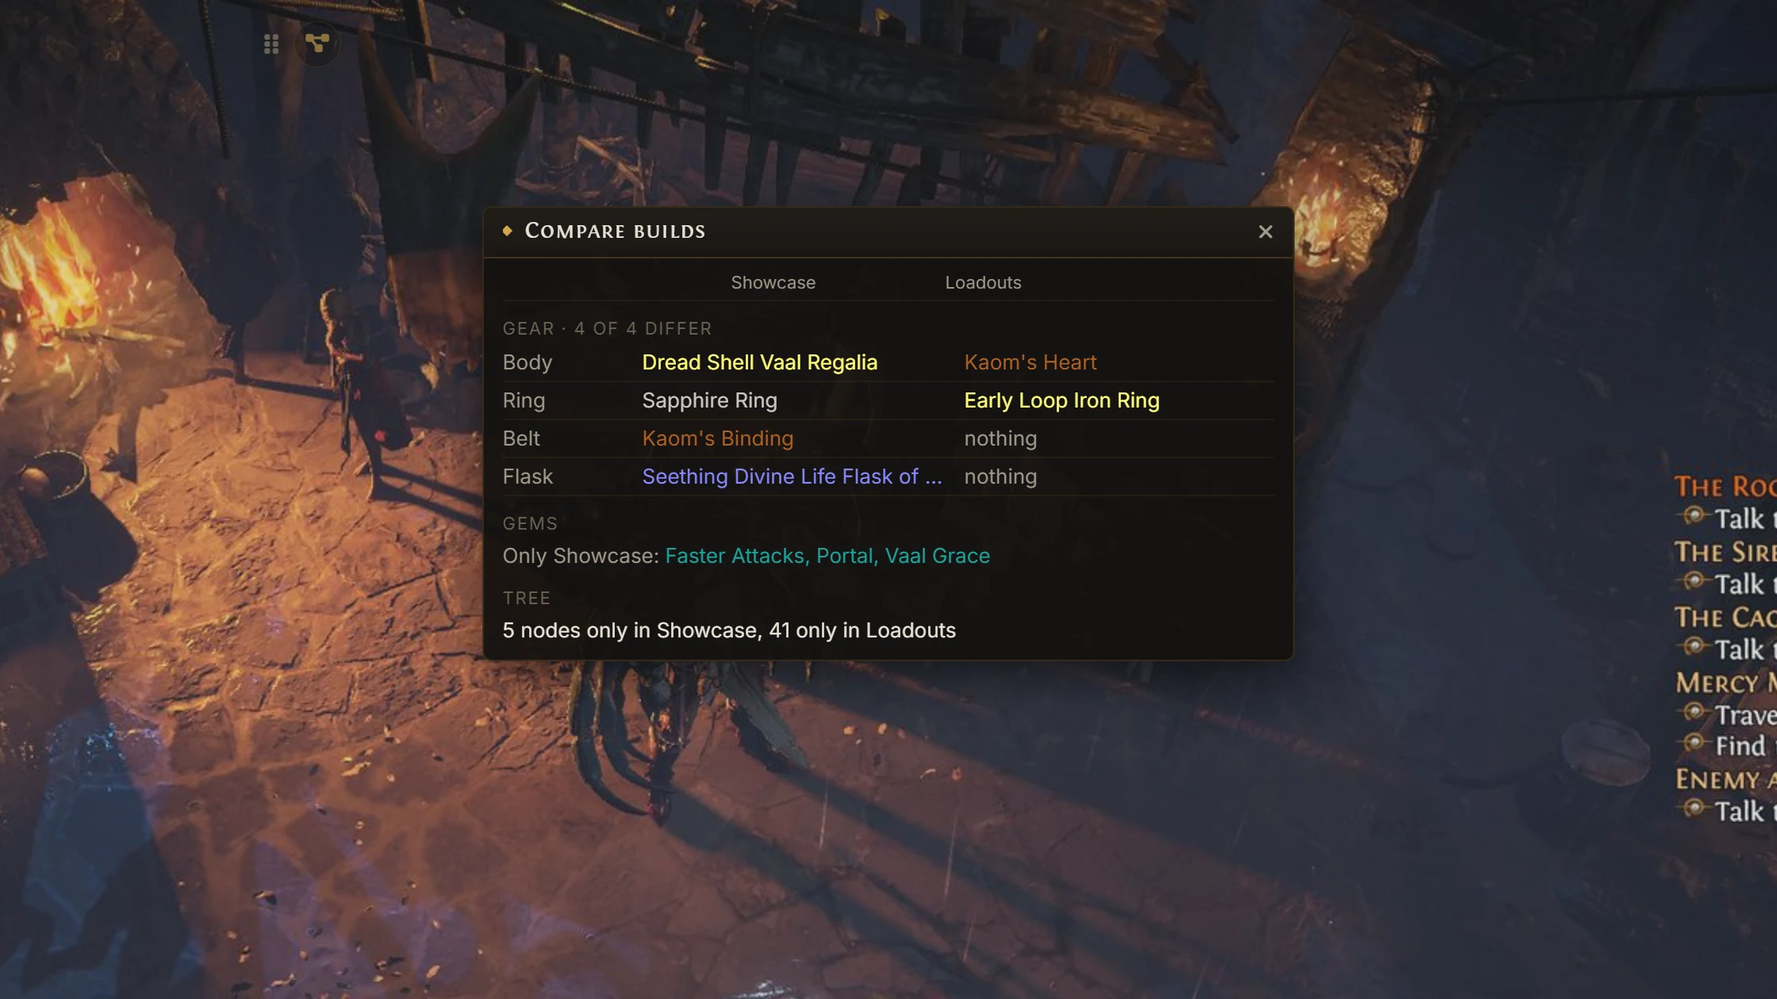
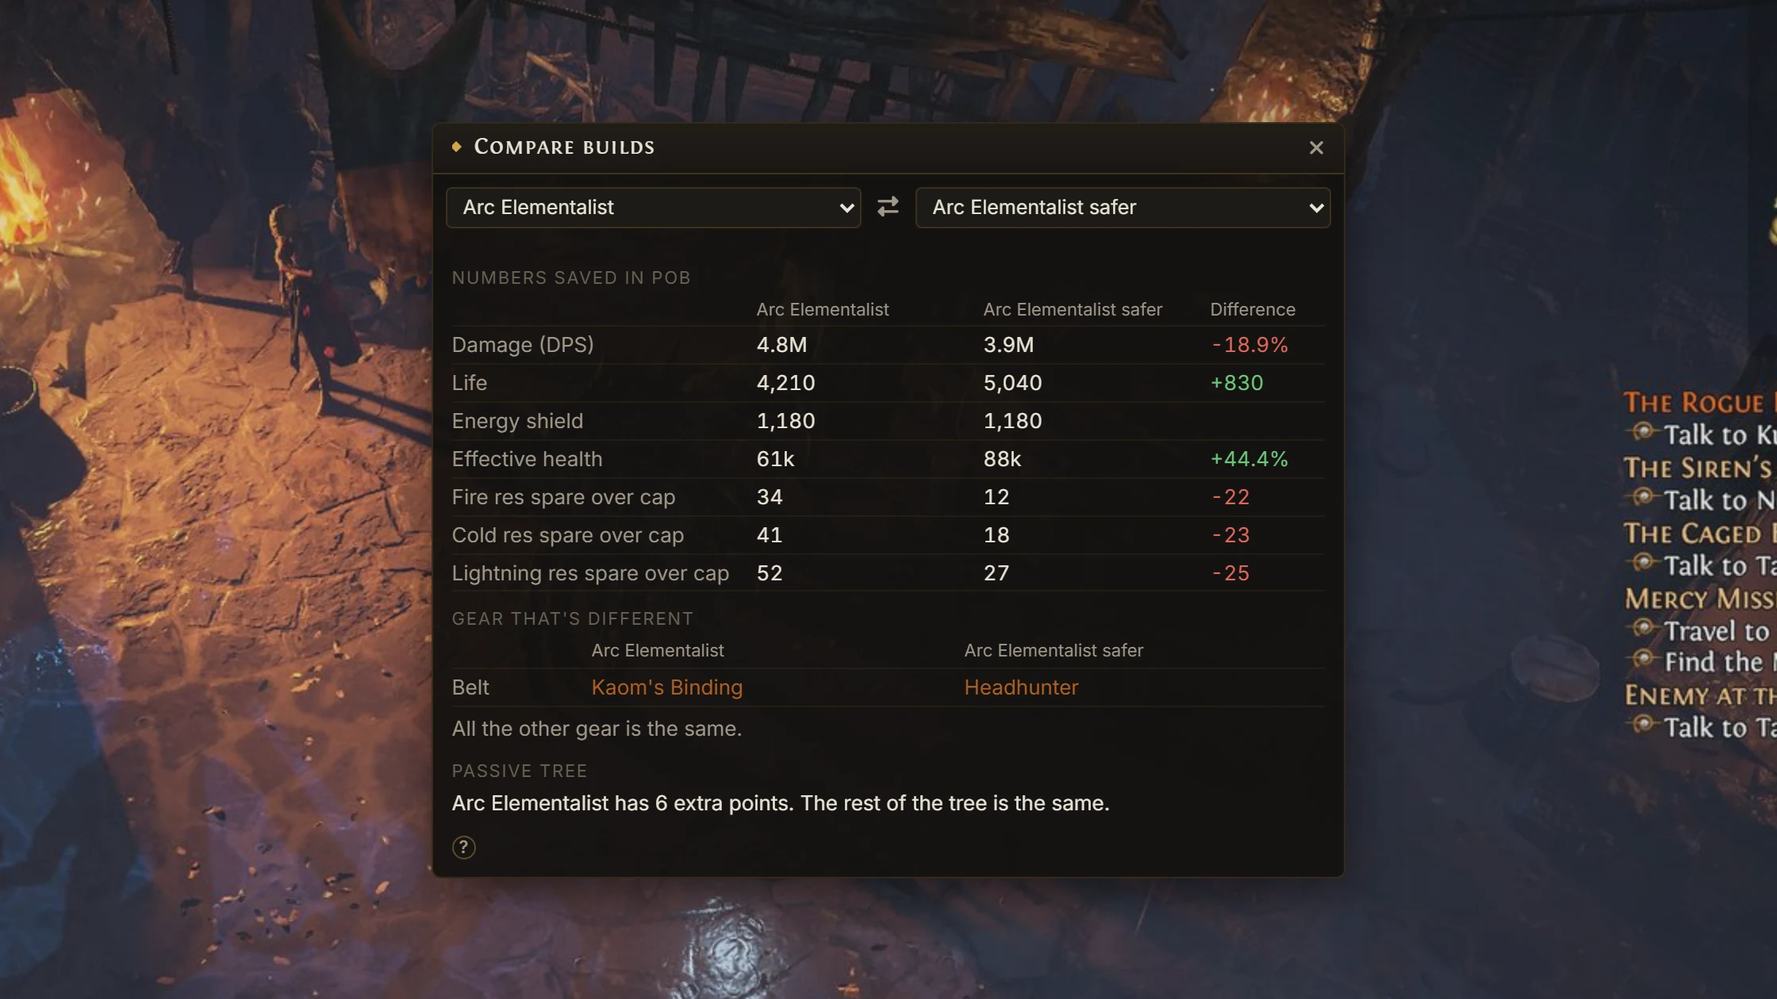
Compare builds: pick both builds in the window, in plain words
The window has a picker for each build and opens from the build's menu, as well as from
the list. Its labels and tree line say what they mean, and the landing page shows it with
believable builds.

diff --git a/renderer/src/web/woke/pob-builds/BuildCompare.vue b/renderer/src/web/woke/pob-builds/BuildCompare.vue
@@ -1,55 +1,83 @@
 <template>
-  <WPanel title="Compare builds" size-key="compare" width="32rem" max-height="70vh">
+  <WPanel title="Compare builds" size-key="compare" width="36rem" max-height="70vh">
     <template #actions>
       <button class="w-icon-btn" title="Close" @click="emit('close')"><i class="fas fa-times" /></button>
     </template>
-    <WEmpty v-if="error" icon="fas fa-exclamation-triangle">{{ error }}</WEmpty>
+    <template #toolbar>
+      <div :class="$style.pick">
+        <WSelect :model-value="a?.relPath ?? ''" :options="options" aria-label="First build" @update:model-value="emit('pick', $event, b?.relPath ?? '')" />
+        <button v-if="a && b" class="w-icon-btn" title="Swap them" @click="emit('pick', b.relPath, a.relPath)"><i class="fas fa-exchange-alt" /></button>
+        <span v-else class="w-dim text-xs">and</span>
+        <WSelect :model-value="b?.relPath ?? ''" :options="options" aria-label="Second build" @update:model-value="emit('pick', a?.relPath ?? '', $event)" />
+      </div>
+    </template>
+
+    <WEmpty v-if="!a || !b" icon="fas fa-balance-scale">Pick two builds to compare.</WEmpty>
+    <WEmpty v-else-if="a === b" icon="fas fa-balance-scale">That's the same build twice. Pick another.</WEmpty>
+    <WEmpty v-else-if="error" icon="fas fa-exclamation-triangle">{{ error }}</WEmpty>
     <WEmpty v-else-if="!result" icon="fas fa-spinner fa-spin">Loading…</WEmpty>
     <div v-else :class="$style.body">
-      <div :class="[$style.row, $style.head]">
-        <span />
-        <span class="w-trunc" :title="a.name">{{ a.name }}</span>
-        <span class="w-trunc" :title="b.name">{{ b.name }}</span>
-        <span />
-      </div>
-      <div v-for="s in result.stats" :key="s.label" :class="$style.row">
-        <span class="w-dim">{{ s.label }}</span>
-        <span class="w-num">{{ s.a }}</span>
-        <span class="w-num">{{ s.b }}</span>
-        <span class="w-num" :style="{ color: TONE[s.tone] }">{{ s.delta }}</span>
-      </div>
-      <div v-if="result.stats.length" class="pt-1"><WInfo text="Stats as PoB saved them, for each build's active sets." /></div>
-
-      <div :class="$style.heading">Gear · {{ result.gear.length }} of {{ result.gearTotal }} differ</div>
-      <div v-for="(g, i) in result.gear" :key="i" :class="$style.gear">
-        <span class="w-dim">{{ g.slot }}</span>
-        <span class="w-trunc" :class="rarity(g.a)">{{ itemName(g.a) }}</span>
-        <span class="w-trunc" :class="rarity(g.b)">{{ itemName(g.a) === itemName(g.b) ? 'Same base, other mods' : itemName(g.b) }}</span>
-      </div>
-
-      <template v-if="result.gemsOnlyA.length || result.gemsOnlyB.length">
-        <div :class="$style.heading">Gems</div>
-        <div v-if="result.gemsOnlyA.length"><span class="w-dim">Only {{ a.name }}: </span><span class="w-rarity-gem">{{ result.gemsOnlyA.join(', ') }}</span></div>
-        <div v-if="result.gemsOnlyB.length"><span class="w-dim">Only {{ b.name }}: </span><span class="w-rarity-gem">{{ result.gemsOnlyB.join(', ') }}</span></div>
+      <template v-if="result.stats.length">
+        <div :class="$style.heading">Numbers saved in PoB</div>
+        <div :class="[$style.row, $style.head]">
+          <span />
+          <span class="w-trunc" :title="a.name">{{ a.name }}</span>
+          <span class="w-trunc" :title="b.name">{{ b.name }}</span>
+          <span>Difference</span>
+        </div>
+        <div v-for="s in result.stats" :key="s.label" :class="$style.row">
+          <span class="w-dim">{{ s.label }}</span>
+          <span class="w-num">{{ s.a }}</span>
+          <span class="w-num">{{ s.b }}</span>
+          <span class="w-num" :style="{ color: TONE[s.tone] }">{{ s.delta }}</span>
+        </div>
       </template>
 
-      <div :class="$style.heading">Tree</div>
-      <div v-if="result.treeOnlyA || result.treeOnlyB">{{ result.treeOnlyA }} nodes only in {{ a.name }}, {{ result.treeOnlyB }} only in {{ b.name }}</div>
-      <div v-else class="w-dim">The same tree.</div>
+      <template v-if="result.gear.length">
+        <div :class="$style.heading">Gear that's different</div>
+        <div :class="[$style.gear, $style.head]">
+          <span />
+          <span class="w-trunc">{{ a.name }}</span>
+          <span class="w-trunc">{{ b.name }}</span>
+        </div>
+        <div v-for="(g, i) in result.gear" :key="i" :class="$style.gear">
+          <span class="w-dim">{{ g.slot }}</span>
+          <span class="w-trunc" :class="rarity(g.a)" :title="itemName(g.a)">{{ itemName(g.a) }}</span>
+          <span class="w-trunc" :class="rarity(g.b)" :title="itemName(g.b)">{{ itemName(g.a) === itemName(g.b) ? 'Same base, other mods' : itemName(g.b) }}</span>
+        </div>
+        <div v-if="result.gear.length < result.gearTotal" class="w-dim pt-1">All the other gear is the same.</div>
+      </template>
+      <div v-else :class="$style.line" class="w-dim">All the gear is the same.</div>
+
+      <template v-if="result.gemsOnlyA.length || result.gemsOnlyB.length">
+        <div :class="$style.heading">Skill gems in only one build</div>
+        <div v-if="result.gemsOnlyA.length"><span class="w-dim">Only in {{ a.name }}: </span><span class="w-rarity-gem">{{ result.gemsOnlyA.join(', ') }}</span></div>
+        <div v-if="result.gemsOnlyB.length"><span class="w-dim">Only in {{ b.name }}: </span><span class="w-rarity-gem">{{ result.gemsOnlyB.join(', ') }}</span></div>
+      </template>
+
+      <div :class="$style.heading">Passive tree</div>
+      <div>{{ treeSentence(result, a.name, b.name) }}</div>
+      <div v-if="result.stats.length" class="pt-2"><WInfo text="Numbers are as PoB saved them, for the set each build was saved on." /></div>
     </div>
   </WPanel>
 </template>
 
 <script setup lang="ts">
-import { shallowRef, watch } from 'vue'
-import { WEmpty, WInfo, WPanel } from '../ui'
-import { compareBuilds } from './compare-builds'
+import { computed, shallowRef, watch } from 'vue'
+import { WEmpty, WInfo, WPanel, WSelect } from '../ui'
+import { compareBuilds, treeSentence } from './compare-builds'
 import type { BuildCompare } from './compare-builds'
 import { pobApi } from './widget'
 import type { PobBuildEntry, PobBuildsWidget, PobItem } from './widget'
 
-const props = defineProps<{ config: PobBuildsWidget, a: PobBuildEntry, b: PobBuildEntry }>()
-const emit = defineEmits<{ (e: 'close'): void }>()
+// Either side may be unpicked yet.
+const props = defineProps<{ config: PobBuildsWidget, builds: PobBuildEntry[], a?: PobBuildEntry, b?: PobBuildEntry }>()
+const emit = defineEmits<{ (e: 'close'): void, (e: 'pick', a: string, b: string): void }>()
+
+const options = computed(() => [
+  { value: '', label: 'Pick a build…' },
+  ...props.builds.map(x => ({ value: x.relPath, label: x.folder ? `${x.name} (${x.folder})` : x.name }))
+])
 
 const TONE = { up: 'var(--w-up)', down: 'var(--w-down)', dim: 'var(--w-dim)' }
 
@@ -58,11 +86,14 @@ const error = shallowRef('')
 
 // Follows a save in PoB too, since the entries come from the refreshed list.
 let latest = 0
-watch(() => [props.a.relPath, props.a.mtime, props.b.relPath, props.b.mtime].join('\n'), async () => {
+watch(() => [props.a?.relPath, props.a?.mtime, props.b?.relPath, props.b?.mtime].join('\n'), async () => {
   const read = ++latest
   error.value = ''
+  result.value = null
+  const { a, b } = props
+  if (!a || !b || a === b) return
   try {
-    const [x, y] = await Promise.all([pobApi.read(props.config, props.a.relPath), pobApi.read(props.config, props.b.relPath)])
+    const [x, y] = await Promise.all([pobApi.read(props.config, a.relPath), pobApi.read(props.config, b.relPath)])
     if (read === latest) result.value = compareBuilds(x, y)
   } catch (err) {
     if (read === latest) error.value = (err as Error).message
@@ -92,10 +123,17 @@ function rarity (item: PobItem | null) {
 }
 .row {
   display: grid;
-  grid-template-columns: 8.5rem minmax(0, 1fr) minmax(0, 1fr) 4.5rem;
+  grid-template-columns: 11.5rem minmax(0, 1fr) minmax(0, 1fr) 4.5rem;
   gap: 8px;
   padding: 2px 0;
   border-bottom: 1px solid var(--w-line-soft);
+}
+.pick {
+  display: grid;
+  grid-template-columns: minmax(0, 1fr) auto minmax(0, 1fr);
+  align-items: center;
+  gap: 6px;
+  width: 100%;
 }
 .head {
   color: var(--w-dim);

diff --git a/testing/e2e/landing-highlights.spec.ts b/testing/e2e/landing-highlights.spec.ts
@@ -305,15 +305,23 @@ test('pob: what each stage costs', async ({ overlay }) => {
 test('pob: two builds side by side', async ({ overlay }) => {
   const dir = grownBuildsDir()
   try {
-    await overlay.boot({ overlayActive: true, widgets: [{ ...showcaseInUse()[0], wmWants: 'show' as const, buildsDir: dir }] })
+    // Two believable versions of one build, with the numbers PoB would save.
+    const stats = (o: Record<string, number>) => Object.entries(o).map(([stat, value]) => `<PlayerStat stat="${stat}" value="${value}"/>`).join('')
+    const withStats = (xml: string, o: Record<string, number>) => xml.replace(/<Build ([^>]*?)\/>/, (_, attrs: string) => `<Build ${attrs}>${stats(o)}</Build>`)
+    const showcase = fs.readFileSync(path.join(dir, 'Showcase.xml'), 'utf8')
+    fs.rmSync(path.join(dir, 'Showcase.xml'))
+    fs.rmSync(path.join(dir, 'Loadouts.xml'))
+    fs.writeFileSync(path.join(dir, 'Arc Elementalist.xml'), withStats(showcase, { CombinedDPS: 4820000, Life: 4210, EnergyShield: 1180, TotalEHP: 61200, FireResistOverCap: 34, ColdResistOverCap: 41, LightningResistOverCap: 52 }))
+    const safer = showcase.replace('Kaom&apos;s Binding', 'Headhunter').replace('Heavy Belt', 'Leather Belt').replace(/nodes="([^"]*)"/, (_, ids: string) => `nodes="${ids.split(',').slice(0, -6).join(',')}"`)
+    fs.writeFileSync(path.join(dir, 'Arc Elementalist safer.xml'), withStats(safer, { CombinedDPS: 3910000, Life: 5040, EnergyShield: 1180, TotalEHP: 88400, FireResistOverCap: 12, ColdResistOverCap: 18, LightningResistOverCap: 27 }))
+    await overlay.boot({ overlayActive: true, widgets: [{ ...showcaseInUse()[0], wmWants: 'show' as const, buildsDir: dir, activeBuild: 'Arc Elementalist.xml' }] })
     await backdrop(overlay, 'frames/town.jpg')
-    const list = overlay.widget('woke-pob-builds')
     const detail = overlay.page.locator('[data-w-panel]').filter({ hasText: 'Open in PoB' })
-    await expect(detail).toContainText('Showcase')
-    await list.getByRole('button', { name: /Loadouts/ }).first().click({ button: 'right' })
-    await overlay.page.getByText('Compare with Showcase').click()
+    await detail.getByTitle('More').first().click()
+    await overlay.page.getByText('Compare with another build').click()
     const panel = overlay.page.locator('[data-w-panel]').filter({ hasText: 'Compare builds' })
-    await expect(panel).toContainText('Gear ·')
+    await panel.getByRole('combobox', { name: 'Second build' }).selectOption('Arc Elementalist safer.xml')
+    await expect(panel).toContainText("Gear that's different")
     // Only the comparison in the picture, not the panel it opened beside.
     await detail.evaluate(el => { el.style.visibility = 'hidden' })
     await overlay.page.mouse.move(1800, 1000)

diff --git a/renderer/src/web/woke/pob-builds/WidgetPobBuilds.vue b/renderer/src/web/woke/pob-builds/WidgetPobBuilds.vue
@@ -62,8 +62,9 @@
         </WEmpty>
       </WPanel>
 
-      <BuildDetail v-if="selectedBuild" :config="config" :entry="selectedBuild" :details="details" @close="selected = null" @tree="treeAt = { title: $event }" />
-      <BuildCompare v-if="compareA && compareB" :config="config" :a="compareA" :b="compareB" @close="comparing = null" />
+      <BuildDetail v-if="selectedBuild" :config="config" :entry="selectedBuild" :details="details" @close="selected = null" @tree="treeAt = { title: $event }" @compare="comparing = { a: $event, b: '' }" />
+      <BuildCompare v-if="comparing" :config="config" :builds="comparePicks" :a="compareA" :b="compareB"
+        @pick="(a, b) => { comparing = { a, b } }" @close="comparing = null" />
       <BuildTree v-if="selectedBuild && details && treeAt != null" :specs="details.trees" :start="treeAt" @close="treeAt = null" />
       <WPanel v-if="selectedBuild && detailsError" size-key="detail" title="Couldn't read the build" width="20rem">
         <div class="w-down" style="padding: var(--w-pad);">{{ detailsError }}</div>
@@ -140,6 +141,8 @@ const treeAt = shallowRef<{ title: string } | null>(null)
 const comparing = shallowRef<{ a: string, b: string } | null>(null)
 const compareA = computed(() => builds.value.find(b => b.relPath === comparing.value?.a))
 const compareB = computed(() => builds.value.find(b => b.relPath === comparing.value?.b))
+// By folder, latest league first, as in the list.
+const comparePicks = computed(() => groupBuilds(builds.value, []).flatMap(g => g.builds))
 const details = shallowRef<PobDetails | null>(null)
 const detailsError = shallowRef('')
 const importOpen = shallowRef(false)
@@ -258,8 +261,12 @@ async function refresh () {
     const before = selectedBuild.value?.mtime
     builds.value = res.builds
     dir.value = res.dir
-    // A compared build that's gone doesn't come back with the file.
-    if (comparing.value && !(compareA.value && compareB.value)) comparing.value = null
+    // A compared build that's gone leaves its side to pick again.
+    if (comparing.value) {
+      const gone = (rel: string) => rel && !builds.value.some(b => b.relPath === rel)
+      if (gone(comparing.value.a)) comparing.value = { ...comparing.value, a: '' }
+      if (gone(comparing.value.b)) comparing.value = { ...comparing.value, b: '' }
+    }
     // PoB saved the build you are looking at.
     const now = selectedBuild.value
     if (now && before != null && now.mtime !== before) loadDetails(now.relPath)

diff --git a/renderer/test/woke/pob-costs.test.ts b/renderer/test/woke/pob-costs.test.ts
@@ -1,7 +1,7 @@
 // Stage costs and build comparison on small real-shaped builds.
 import { beforeAll, describe, expect, it } from 'vitest'
 import { stageCosts } from '@/web/woke/pob-builds/build-costs'
-import { compareBuilds } from '@/web/woke/pob-builds/compare-builds'
+import { compareBuilds, treeSentence } from '@/web/woke/pob-builds/compare-builds'
 import type { PobDetails, PobItem } from '@/web/woke/pob-builds/widget'
 import { loadGameData } from '../helpers/game-data'
 
@@ -69,10 +69,10 @@ describe('compareBuilds', () => {
 
   it('shows real changes with their direction', () => {
     const row = (label: string) => r.stats.find(s => s.label === label)!
-    expect(row('DPS')).toMatchObject({ a: '863.6M', b: '729.6M', delta: '-15.5%', tone: 'down' })
+    expect(row('Damage (DPS)')).toMatchObject({ a: '863.6M', b: '729.6M', delta: '-15.5%', tone: 'down' })
     expect(row('Energy shield')).toMatchObject({ delta: '+2,520', tone: 'up' })
-    expect(row('Total EHP')).toMatchObject({ delta: '+110%', tone: 'up' })
-    expect(row('Fire over cap')).toMatchObject({ delta: '-28', tone: 'down' })
+    expect(row('Effective health')).toMatchObject({ delta: '+110%', tone: 'up' })
+    expect(row('Fire res spare over cap')).toMatchObject({ delta: '-28', tone: 'down' })
   })
 
   it('leaves out what is the same', () => {
@@ -82,5 +82,14 @@ describe('compareBuilds', () => {
     expect(r.gemsOnlyB).toEqual(['Controlled Destruction'])
     expect(r.treeOnlyA).toBe(1)
     expect(r.treeOnlyB).toBe(0)
+  })
+})
+
+describe('treeSentence', () => {
+  it('says it in words', () => {
+    expect(treeSentence({ treeOnlyA: 0, treeOnlyB: 0 }, 'A', 'B')).toBe('The same passive tree.')
+    expect(treeSentence({ treeOnlyA: 6, treeOnlyB: 0 }, 'A', 'B')).toBe('A has 6 extra points. The rest of the tree is the same.')
+    expect(treeSentence({ treeOnlyA: 0, treeOnlyB: 1 }, 'A', 'B')).toBe('B has 1 extra point. The rest of the tree is the same.')
+    expect(treeSentence({ treeOnlyA: 2, treeOnlyB: 3 }, 'A', 'B')).toBe('2 points only in A, 3 only in B.')
   })
 })

diff --git a/renderer/src/web/woke/pob-builds/compare-builds.ts b/renderer/src/web/woke/pob-builds/compare-builds.ts
@@ -31,13 +31,13 @@ export interface BuildCompare {
 type Read = (s: PobStats) => number | undefined
 
 const STATS: Array<{ label: string, read: Read, percent?: boolean, overCap?: boolean }> = [
-  { label: 'DPS', read: s => buildDps(s) || undefined, percent: true },
+  { label: 'Damage (DPS)', read: s => buildDps(s) || undefined, percent: true },
   { label: 'Life', read: s => (s.Life && s.Life > 1 ? s.Life : undefined) },
   { label: 'Energy shield', read: s => s.EnergyShield },
-  { label: 'Total EHP', read: s => s.TotalEHP, percent: true },
-  { label: 'Fire over cap', read: s => s.FireResistOverCap, overCap: true },
-  { label: 'Cold over cap', read: s => s.ColdResistOverCap, overCap: true },
-  { label: 'Lightning over cap', read: s => s.LightningResistOverCap, overCap: true },
+  { label: 'Effective health', read: s => s.TotalEHP, percent: true },
+  { label: 'Fire res spare over cap', read: s => s.FireResistOverCap, overCap: true },
+  { label: 'Cold res spare over cap', read: s => s.ColdResistOverCap, overCap: true },
+  { label: 'Lightning res spare over cap', read: s => s.LightningResistOverCap, overCap: true },
   { label: 'Chaos resistance', read: s => s.ChaosResist }
 ]
 
@@ -99,4 +99,13 @@ export function compareBuilds (a: PobDetails, b: PobDetails): BuildCompare {
     treeOnlyA: treeA.filter(n => !treeB.includes(n)).length,
     treeOnlyB: treeB.filter(n => !treeA.includes(n)).length
   }
+}
+
+// The passive trees in a sentence.
+export function treeSentence (r: Pick<BuildCompare, 'treeOnlyA' | 'treeOnlyB'>, a: string, b: string): string {
+  const points = (n: number) => `${n} extra ${n === 1 ? 'point' : 'points'}`
+  if (!r.treeOnlyA && !r.treeOnlyB) return 'The same passive tree.'
+  if (!r.treeOnlyB) return `${a} has ${points(r.treeOnlyA)}. The rest of the tree is the same.`
+  if (!r.treeOnlyA) return `${b} has ${points(r.treeOnlyB)}. The rest of the tree is the same.`
+  return `${r.treeOnlyA} ${r.treeOnlyA === 1 ? 'point' : 'points'} only in ${a}, ${r.treeOnlyB} only in ${b}.`
 }

diff --git a/testing/e2e/pob-builds.spec.ts b/testing/e2e/pob-builds.spec.ts
@@ -343,14 +343,27 @@ test('the build in use has a dock icon, with its links on hover', async ({ overl
   await overlay.snap('build hover card')
 })
 
-test('two builds compare side by side from the list menu', async ({ overlay }) => {
+test('two builds compare side by side, picked in the window', async ({ overlay }) => {
   await overlay.boot({ widgets: [{ ...showcaseSeed()[0], wmWants: 'show' as const }], overlayActive: true })
+  const detail = overlay.page.locator('[data-w-panel]').filter({ hasText: 'Open in PoB' })
+  await expect(detail).toContainText('Showcase')
+  await detail.getByRole('button', { name: 'More' }).or(detail.getByTitle('More')).first().click()
+  await overlay.page.getByText('Compare with another build').click()
+  const panel = overlay.page.locator('[data-w-panel]').filter({ hasText: 'Compare builds' })
+  await expect(panel).toContainText('Pick two builds to compare')
+  await panel.getByRole('combobox', { name: 'Second build' }).selectOption('Loadouts.xml')
+  await expect(panel).toContainText("Gear that's different")
+  await expect(panel).toContainText('Passive tree')
+
+  // The same build twice isn't a comparison.
+  await panel.getByRole('combobox', { name: 'Second build' }).selectOption('Showcase.xml')
+  await expect(panel).toContainText('same build twice')
+
+  // The list's menu still goes straight there.
   const list = overlay.widget('woke-pob-builds')
-  await expect(overlay.page.locator('[data-w-panel]').filter({ hasText: 'Open in PoB' })).toContainText('Showcase')
   await list.getByRole('button', { name: /Loadouts/ }).first().click({ button: 'right' })
   await overlay.page.getByText('Compare with Showcase').click()
-  const panel = overlay.page.locator('[data-w-panel]').filter({ hasText: 'Compare builds' })
-  await expect(panel).toContainText('Gear ·')
+  await expect(panel).toContainText("Gear that's different")
   await overlay.snap('compare builds')
 })
 

diff --git a/docs/.vitepress/theme/landing/content.js b/docs/.vitepress/theme/landing/content.js
@@ -38,7 +38,7 @@ export const HIGHLIGHTS = [
       { label: 'Next step', module: 'pob-builds', shot: 'hl-pob-next', text: 'What changes in your next tree, gems and gear, before you get there.', alt: 'The Next section of a build: new passive points, gems to add and drop, and the gear that changes' },
       { label: 'Passive tree', module: 'pob-builds', shot: 'hl-pob-tree', text: 'The tree right in the overlay: your points in gold, new ones in green, respecs in red.', alt: 'Passive tree panel with allocated paths, new points and a list of what the next tree adds and removes' },
       { label: 'Stage costs', module: 'pob-builds', shot: 'hl-pob-costs', text: 'What the uniques in each stage of the build cost at poe.ninja prices, with the rares to search for.', alt: 'Gear tab with the cost of each stage, and one stage opened to its uniques and rares' },
-      { label: 'Compare builds', module: 'pob-builds', shot: 'hl-pob-compare', text: 'Right-click a build to compare it with the one you have open: stats, gear, gems and tree.', alt: 'Compare builds panel: the gear that differs, the gems only one has, and tree differences' },
+      { label: 'Compare builds', module: 'pob-builds', shot: 'hl-pob-compare', text: 'Pick any two of your builds to see how their stats, gear, gems and tree differ.', alt: 'Compare builds panel: the gear that differs, the gems only one has, and tree differences' },
       { label: 'Swap check', module: 'pob-builds', shot: 'hl-pob-swap', text: 'Price check a piece of gear and compare its numbers to what your build wears.', alt: 'Price check of a body armour with a tooltip comparing its numbers to the build\'s body armour' },
       { label: 'Build icon', module: 'pob-builds', shot: 'hl-pob-hover', text: 'Your links, next tree, pantheon and stats, one hover away, even in a map.', alt: 'A small dock icon with a card showing the build\'s links and next tree' }
     ]

diff --git a/renderer/src/web/woke/pob-builds/BuildDetail.vue b/renderer/src/web/woke/pob-builds/BuildDetail.vue
@@ -211,7 +211,7 @@ const props = defineProps<{
   entry: PobBuildEntry
   details: PobDetails | null
 }>()
-const emit = defineEmits<{ (e: 'close'): void, (e: 'tree', title: string): void }>()
+const emit = defineEmits<{ (e: 'close'): void, (e: 'tree' | 'compare', value: string): void }>()
 
 const build = useActiveBuild()
 const level = build.level
@@ -243,6 +243,7 @@ function setActive () {
 function moreMenu (e: MouseEvent) {
   const name = charName.value
   openMenu(e, [
+    { label: 'Compare with another build', icon: 'fas fa-balance-scale', action: () => emit('compare', props.entry.relPath) },
     { label: 'Show file', icon: 'fas fa-folder-open', action: () => run(pobApi.show(props.config, props.entry.relPath)) },
     ...(name
       ? [{
